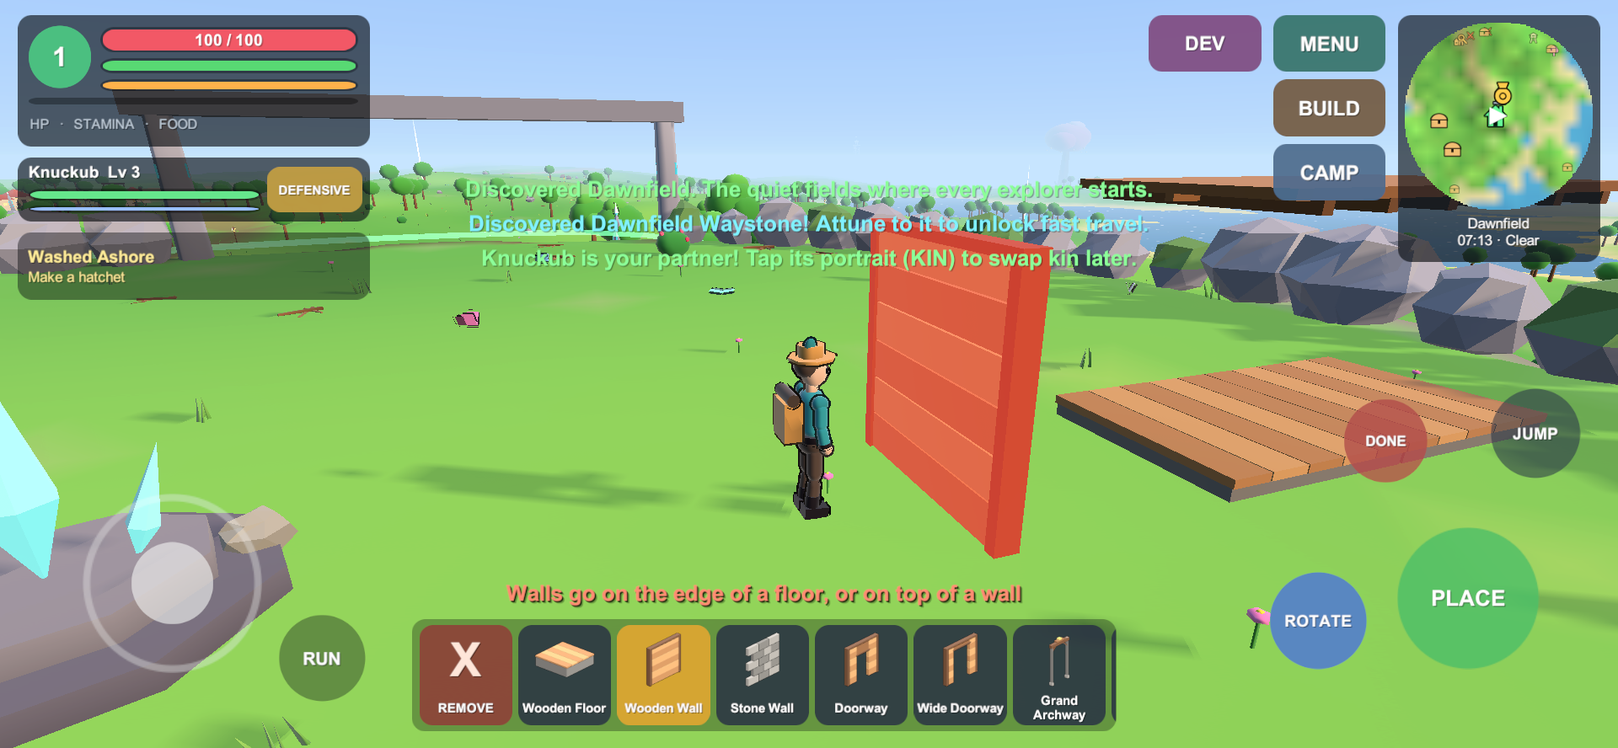
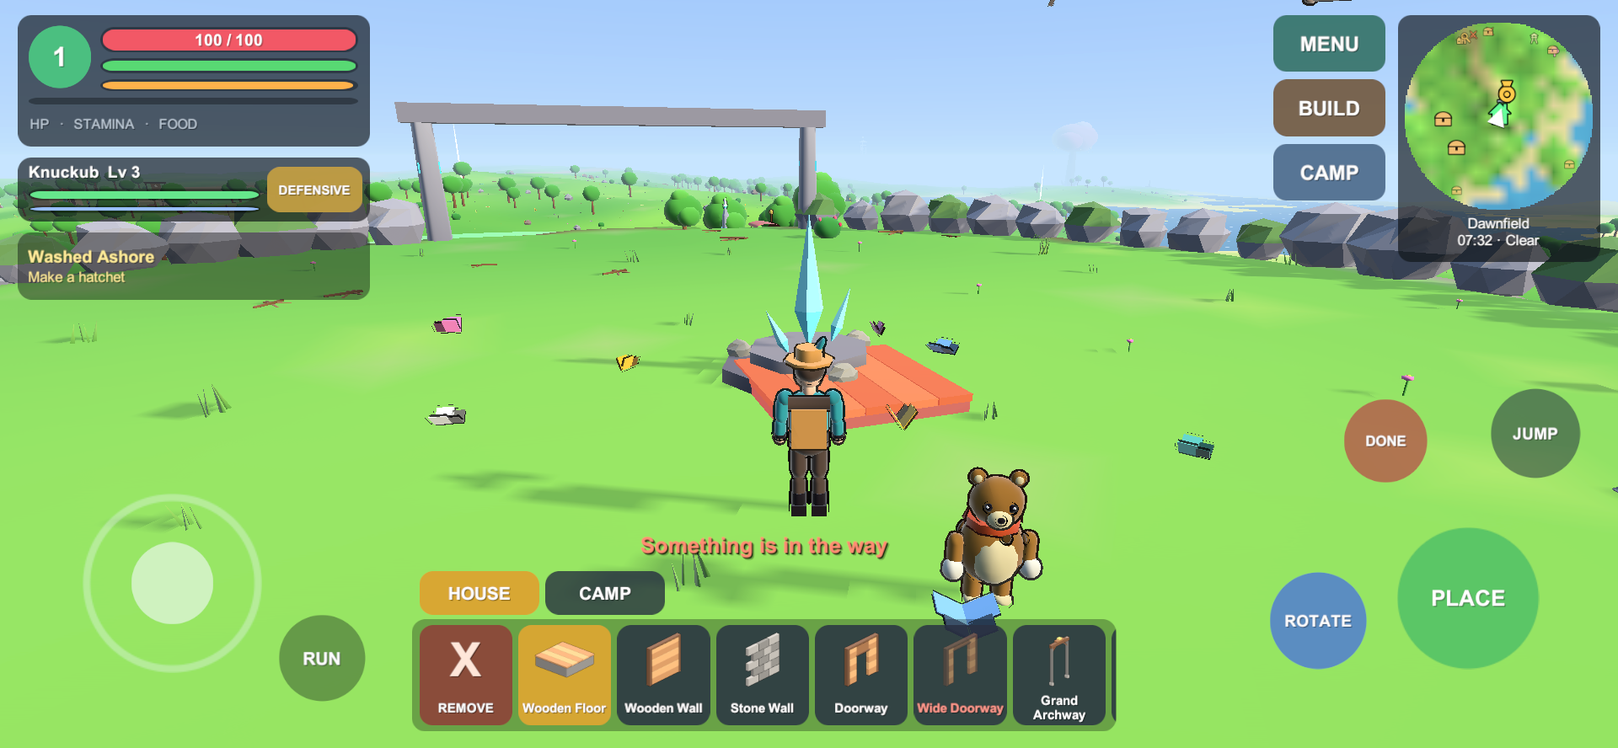
BUILD goes straight into placing; the build bar has HOUSE / CAMP tabs (camp structures as pictures too) and opens where you left off

diff --git a/docs/guides.js b/docs/guides.js
@@ -335,7 +335,7 @@ html: `
 
 <h2 id="house">Your house</h2>
 <p>Build a home inside the camp ring, a 3 m square at a time: <b>BUILD &gt; HOUSE</b>. Lay <b>floors</b> first (they sit level even on a slope), then <b>walls</b>, a <b>doorway</b> and <b>windows</b> along their edges - stand facing the edge you want, and ROTATE steps round the square's four sides. Put a <b>Flat Roof</b> or <b>Flat Ceiling</b> on top: it goes to the top of the room's walls, and you can walk on it and build the next storey on it - it is that storey's floor. Sloped roofs are for looks (two back to back make a ridge). Furniture goes on floors: a bed, table, chair, lamp, rug, bookshelf and a wardrobe where you can change your look. Doors open by themselves when someone walks up, and when you are inside, the roof and the walls in the way fade so you can see in. Taking a piece down gives all its materials back.</p>
-<p><b>The build bar:</b> while you build, a strip along the bottom shows every house piece you can make as a picture, with <b>REMOVE</b> first. Tap one to switch to it - no need to go back to the menu. The piece in hand is lit gold; ones you are short of materials for are dimmed. <b>JUMP</b> works while you build, and <b>DONE</b> puts the tools away.</p>
+<p><b>The build bar:</b> tapping <b>BUILD</b> goes straight into placing. A strip along the bottom shows what you can build as pictures, with <b>HOUSE</b> and <b>CAMP</b> tabs on top: HOUSE has <b>REMOVE</b> and every house piece you have, CAMP every camp structure you can build at your level. Tap one to switch to it - no need to go back to the menu (the menu's Build page still lists everything with full descriptions). BUILD opens where you left off. The piece in hand is lit gold; ones you are short of materials for are dimmed. <b>JUMP</b> works while you build, and <b>DONE</b> puts the tools away.</p>
 <p><b>Level houses:</b> a house is built level. A floor laid next to your house takes its height and its stone footing reaches down to the ground; where the ground is higher than the house, the whole house is lifted to stay level, with everything on it. Where a floor sits higher than you can step (more than about knee height), put <b>Porch Steps</b> on the outside of the edge by your door - they are as long as the ground needs.</p>
 <p><b>Upstairs:</b> lay a floor over a floor - from below or from the storey above - and it becomes an upper floor one storey up (a house goes four storeys high). <b>Wooden Stairs</b> go on a floor and climb the way you face (ROTATE turns them); they need open space above them, and floors beside their top make the landing. A railing goes round the stairwell once there is an upstairs. Walls, furniture and stairs go on the storey you are standing on. To build higher where there is a roof, take the roof off first. When you are downstairs, everything above you fades so you can still see in.</p>
 <p><b>Upper floors:</b> an upper floor stands on a floor or walls under it, or simply touches another floor at the same height - nothing has to be underneath, so a storey can spread out over open air as far as you like (balconies, bridges, a deck over the cliff). While placing a floor, <b>ROTATE</b> lifts it one storey at a time, so you can lay the next storey's floor from the ground; the build line says which storey it is on. Close open sides with the <b>Wooden Railing</b>. A floor or wall can't be taken away if that would leave an upper floor touching nothing.</p>

diff --git a/Assets/Scripts/UI/HUD.BuildBar.cs b/Assets/Scripts/UI/HUD.BuildBar.cs
@@ -5,22 +5,26 @@ using UnityEngine.UI;
 namespace Wildbond
 {
     /// <summary>
-    /// The house build bar (user, 2026-10-28: "easy and functional building a toddler could use ... swap from placing to
-    /// destroying in that ui for placing, not have to go into menu building house then pick it"): while you place a house
-    /// piece or use REMOVE, a strip along the bottom shows REMOVE and every house piece you can build, as pictures. Tap one
-    /// to switch to it at once; the one in hand is lit gold, ones you can't afford are dimmed.
+    /// The build bar (user, 2026-10-28: "easy and functional building a toddler could use ... swap from placing to
+    /// destroying in that ui for placing", then "tapping build should open placing, with an option at top for house or
+    /// camp"): BUILD goes straight into placing, and while placing a strip along the bottom shows, as pictures, either
+    /// REMOVE and every house piece you have the blueprint for (HOUSE) or every camp structure you can build at your level
+    /// (CAMP). HOUSE / CAMP tabs sit on top of it. Tap a picture to switch to it at once; the one in hand is lit gold, ones
+    /// you can't afford are dimmed.
     /// </summary>
     public partial class HUD
     {
         RectTransform buildBar, buildBarContent;
         ScrollRect buildBarScroll;
-        readonly List<(HousePieceDef def, Image bg, Image pic, Text name)> buildChips = new List<(HousePieceDef, Image, Image, Text)>();
+        Image houseTab, campTab;
+        readonly List<(object def, Image bg, Image pic, Text name)> buildChips = new List<(object, Image, Image, Text)>();
         Image removeChip;
         int buildBarStamp = -1;
-        bool buildBarWasOn;
+        bool buildBarWasOn, buildBarHouse;
 
         static readonly Color ChipCol = new Color(0.16f, 0.2f, 0.26f, 0.92f), ChipOn = new Color(0.85f, 0.65f, 0.2f, 0.95f),
-            ChipRemove = new Color(0.55f, 0.24f, 0.22f, 0.92f), ChipRemoveOn = new Color(0.9f, 0.35f, 0.3f, 0.98f);
+            ChipRemove = new Color(0.55f, 0.24f, 0.22f, 0.92f), ChipRemoveOn = new Color(0.9f, 0.35f, 0.3f, 0.98f),
+            TabOn = new Color(0.85f, 0.65f, 0.2f, 0.98f), TabOff = new Color(0.16f, 0.2f, 0.26f, 0.92f);
 
         void BuildBuildBar()
         {
@@ -43,22 +47,47 @@ namespace Wildbond
             buildBarScroll.vertical = false;
             buildBarScroll.movementType = ScrollRect.MovementType.Clamped;
             buildBarScroll.viewport = bg.rectTransform;
+
+            // HOUSE / CAMP tabs on top of the bar's left end
+            houseTab = Tab("HOUSE", 0, () => BuildPlacement.I.OpenBuild(true));
+            campTab = Tab("CAMP", 1, () => BuildPlacement.I.OpenBuild(false));
             buildBar.gameObject.SetActive(false);
         }
 
-        /// <summary>Fills the bar with REMOVE and the pieces you have the blueprint for (again whenever the house changes).</summary>
-        void FillBuildBar()
+        Image Tab(string label, int i, System.Action onTap)
+        {
+            var b = UIFactory.Button(buildBar, label, onTap, TabOff, 24);
+            var img = b.GetComponent<Image>();
+            img.sprite = UIFactory.Rounded; img.type = Image.Type.Sliced;
+            ((RectTransform)b.transform).Place(new Vector2(0, 1), new Vector2(0, 0), new Vector2(10 + i * 168, 6), new Vector2(160, 58));
+            return img;
+        }
+
+        /// <summary>Fills the bar for the mode in hand (again whenever what you can build changes).</summary>
+        void FillBuildBar(bool house)
         {
             foreach (Transform c in buildBarContent) Destroy(c.gameObject);
             buildChips.Clear();
-            removeChip = Chip("REMOVE", null, ChipRemove, () => BuildPlacement.I.BeginRemove());
-            foreach (var d in Housing.Pieces)
+            removeChip = null;
+            if (house)
             {
-                if (Housing.Locked(d)) continue;
-                var dd = d;
-                var bg = Chip(d.name, ItemIcons.Get("hp_" + d.id), ChipCol, () => BuildPlacement.I.BeginPiece(dd));
-                buildChips.Add((d, bg, bg.transform.Find("Pic")?.GetComponent<Image>(), bg.transform.Find("Name")?.GetComponent<Text>()));
+                removeChip = Chip("REMOVE", null, ChipRemove, () => BuildPlacement.I.BeginRemove());
+                foreach (var d in Housing.Pieces)
+                {
+                    if (Housing.Locked(d)) continue;
+                    var dd = d;
+                    var bg = Chip(d.name, ItemIcons.Get("hp_" + d.id), ChipCol, () => BuildPlacement.I.BeginPiece(dd));
+                    buildChips.Add((d, bg, bg.transform.Find("Pic")?.GetComponent<Image>(), bg.transform.Find("Name")?.GetComponent<Text>()));
+                }
             }
+            else
+                foreach (var d in MenuUI.CampBuildable())
+                {
+                    var dd = d;
+                    var bg = Chip(d.displayName, ItemIcons.Get("bld_" + d.id), ChipCol, () => BuildPlacement.I.Begin(dd));
+                    buildChips.Add((d, bg, bg.transform.Find("Pic")?.GetComponent<Image>(), bg.transform.Find("Name")?.GetComponent<Text>()));
+                }
+            buildBarWasOn = false;   // scroll to the one in hand again
         }
 
         Image Chip(string label, Sprite pic, Color col, System.Action onTap)
@@ -93,32 +122,38 @@ namespace Wildbond
         void UpdateBuildBar()
         {
             var bp = BuildPlacement.I;
-            bool on = bp.Active && (bp.Piece != null || bp.Removing);
+            bool on = bp.Active;
             if (buildBar.gameObject.activeSelf != on) buildBar.gameObject.SetActive(on);
             if (!on) { buildBarWasOn = false; return; }
-            // blueprints you find while building show up the next time it is filled
-            int stamp = GameManager.I.Player.Stats.blueprints.Count;
-            if (stamp != buildBarStamp || buildChips.Count == 0) { buildBarStamp = stamp; FillBuildBar(); }
+            bool house = bp.Piece != null || bp.Removing;
+            // refill on a mode switch, or when what you can build changes (a level, research, a blueprint, the camp founded)
+            var st = GameManager.I.Player.Stats;
+            int stamp = (house ? 1 : 0) + 2 * st.blueprints.Count + 1000 * st.level + 100000 * st.techDone.Count + (BaseManager.I.HasBase ? 50000000 : 0);
+            if (stamp != buildBarStamp || house != buildBarHouse || buildChips.Count == 0) { buildBarStamp = stamp; buildBarHouse = house; FillBuildBar(house); }
+            houseTab.color = house ? TabOn : TabOff;
+            campTab.color = house ? TabOff : TabOn;
+            houseTab.gameObject.SetActive(BaseManager.I.HasBase);   // no house before there is a camp
             bool free = WorldRules.Current.freeBuild;
             int picked = -1;
             for (int i = 0; i < buildChips.Count; i++)
             {
                 var c = buildChips[i];
-                bool cur = !bp.Removing && bp.Piece == c.def;
+                bool cur = house ? !bp.Removing && bp.Piece == c.def : bp.Current == c.def;
                 if (cur) picked = i;
-                bool can = free || ItemSources.Has(c.def.cost);
+                var cost = c.def is HousePieceDef hp ? hp.cost : ((BuildingDef)c.def).cost;
+                bool can = free || ItemSources.Has(cost);
                 c.bg.color = cur ? ChipOn : ChipCol;
                 if (c.pic != null) c.pic.color = can ? Color.white : new Color(1f, 1f, 1f, 0.35f);
                 if (c.name != null) c.name.color = can ? Color.white : new Color(1f, 0.6f, 0.55f);
             }
-            removeChip.color = bp.Removing ? ChipRemoveOn : ChipRemove;
-            // on opening, scroll so the piece in hand is in view
+            if (removeChip != null) removeChip.color = bp.Removing ? ChipRemoveOn : ChipRemove;
+            // on opening, scroll so the one in hand is in view
             if (!buildBarWasOn)
             {
                 buildBarWasOn = true;
                 Canvas.ForceUpdateCanvases();
                 float w = buildBarContent.rect.width, view = ((RectTransform)buildBarScroll.viewport).rect.width;
-                float x = picked < 0 ? 0f : 10 + (picked + 1) * 132f;
+                float x = picked < 0 ? 0f : 10 + (picked + (removeChip != null ? 1 : 0)) * 132f;
                 buildBarScroll.horizontalNormalizedPosition = w > view ? Mathf.Clamp01((x - view * 0.4f) / (w - view)) : 0f;
             }
         }

diff --git a/Assets/Scripts/Base/BuildPlacement.cs b/Assets/Scripts/Base/BuildPlacement.cs
@@ -59,12 +59,40 @@ namespace Wildbond
             ring.enabled = false;
         }
 
+        /// <summary>The last house piece / camp structure picked, so BUILD opens where you left off; and which of the two.</summary>
+        HousePieceDef lastPiece; BuildingDef lastCamp;
+        public static bool HouseMode;
+        bool ghostOwned;   // the ghost's mesh was made here (camp structures) - house meshes are shared, never destroyed
+
+        /// <summary>
+        /// BUILD (user, 2026-10-28: "tapping build should open placing, with an option at top for house or camp"): straight
+        /// into placing, house or camp as last time (camp until there is a Hearthstone), on the last thing picked.
+        /// </summary>
+        public void OpenBuild(bool? house = null)
+        {
+            if (Caves.InCave) { GameEvents.Warn("You can't build underground."); return; }
+            bool h = (house ?? HouseMode) && BaseManager.I.HasBase;
+            if (h) { BeginPiece(lastPiece != null && !Housing.Locked(lastPiece) ? lastPiece : Housing.Def("house_floor")); return; }
+            var list = MenuUI.CampBuildable();
+            var d = lastCamp != null && list.Contains(lastCamp) ? lastCamp : list.Count > 0 ? list[0] : null;
+            if (d == null) { GameEvents.Warn("Nothing you can build yet - level up or research more structures."); return; }
+            Begin(d);
+        }
+
+        void SetGhost(Mesh m, bool owned)
+        {
+            if (ghostOwned && ghostMf.sharedMesh != null && ghostMf.sharedMesh != m) Destroy(ghostMf.sharedMesh);
+            ghostMf.sharedMesh = m;
+            ghostOwned = owned;
+        }
+
         public void BeginPiece(HousePieceDef def)
         {
             if (def == null) return;
+            lastPiece = def; HouseMode = true;
             // a piece you can't afford can still be picked from the build bar: its ghost shows red with "Missing materials"
             Current = null; Removing = false; Piece = def; Active = true;
-            ghostMf.sharedMesh = Housing.MeshFor(def);
+            SetGhost(Housing.MeshFor(def), false);
             ghost.SetActive(true);
             turns = 0;
             SynthAudio.Play(Sfx.UiOpen);
@@ -96,7 +124,7 @@ namespace Wildbond
                 if (t != removeTarget)
                 {
                     removeTarget = t;
-                    if (t != null) ghostMf.sharedMesh = t.go.GetComponent<MeshFilter>().sharedMesh;
+                    if (t != null) SetGhost(t.go.GetComponent<MeshFilter>().sharedMesh, false);
                 }
                 ghost.SetActive(t != null);
                 if (t != null) { ghost.transform.SetPositionAndRotation(t.go.transform.position, t.go.transform.rotation); ghost.transform.localScale = Vector3.one * 1.02f; }
@@ -157,15 +185,11 @@ namespace Wildbond
         {
             if (def == null) return;
             Piece = null; Removing = false;
-            if (!WorldRules.Current.freeBuild && !ItemSources.Has(def.cost))
-            {
-                GameEvents.Warn($"Not enough materials for {def.displayName}.");
-                return;
-            }
+            // one you can't afford can still be picked from the build bar: its ghost shows red with "Missing materials"
+            lastCamp = def; HouseMode = false;
             Current = def;
             Active = true;
-            if (ghostMf.sharedMesh != null) Destroy(ghostMf.sharedMesh);
-            ghostMf.sharedMesh = ModelBuilder.BuildStatic(def.parts, def.palette, "ghost_" + def.id);
+            SetGhost(ModelBuilder.BuildStatic(def.parts, def.palette, "ghost_" + def.id), true);
             ghost.SetActive(true);
             rotY = GameManager.I.Player.transform.eulerAngles.y + 180f;
             rotY = Mathf.Round(rotY / rotateStep) * rotateStep;
@@ -232,7 +256,6 @@ namespace Wildbond
                 SynthAudio.Play(Sfx.Build, 0.8f, 0.7f);
                 GameManager.I.AddPlayerXp(8);
                 GameEvents.Say($"{Current.displayName}: construction started - Crafting kin will build it, or tap BUILD there to help.");
-                if (!free && !ItemSources.Has(Current.cost)) Cancel();
                 return;
             }
             var b = bm.Place(Current, target, rotY);
@@ -249,7 +272,6 @@ namespace Wildbond
             }
             GameEvents.Good($"Built {Current.displayName}");
             bm.StaffNew(b);   // idle camp kin that suit it start there
-            if (!free && !ItemSources.Has(Current.cost)) Cancel();
         }
 
         void DrawRing(Vector3 c, float r)

diff --git a/Assets/Scripts/UI/HUD.cs b/Assets/Scripts/UI/HUD.cs
@@ -227,7 +227,7 @@ namespace Wildbond
 
             var menu = UIFactory.Button(safe, "MENU", () => MenuUI.I.Toggle(), new Color(0.2f, 0.45f, 0.4f, 0.95f), 28);
             ((RectTransform)menu.transform).Place(new Vector2(1, 1), new Vector2(1, 1), new Vector2(-310, -20), new Vector2(150, 76));
-            var build = UIFactory.Button(safe, "BUILD", () => MenuUI.I.Open(MenuTab.Build), new Color(0.45f, 0.35f, 0.2f, 0.95f), 28);
+            var build = UIFactory.Button(safe, "BUILD", () => { if (BuildPlacement.I.Active) BuildPlacement.I.Cancel(); else BuildPlacement.I.OpenBuild(); }, new Color(0.45f, 0.35f, 0.2f, 0.95f), 28);
             ((RectTransform)build.transform).Place(new Vector2(1, 1), new Vector2(1, 1), new Vector2(-310, -106), new Vector2(150, 76));
             campBtn = UIFactory.Button(safe, "CAMP", () => MenuUI.I.OpenCamp(CampTab.Overview), new Color(0.3f, 0.42f, 0.55f, 0.95f), 28);
             ((RectTransform)campBtn.transform).Place(new Vector2(1, 1), new Vector2(1, 1), new Vector2(-310, -192), new Vector2(150, 76));
@@ -416,7 +416,7 @@ namespace Wildbond
             RoundButton(placeCluster, "JUMP", Btn.Jump, new Vector2(-110, 420), 120, new Color(0.2f, 0.24f, 0.3f, 0.75f), out _, 22);
             RoundButton(placeCluster, "DONE", Btn.Cancel, new Vector2(-310, 410), 112, new Color(0.7f, 0.3f, 0.3f, 0.85f), out _, 20);
             placeReason = UIFactory.Label(placeCluster, "", 30, Color.white, TextAnchor.MiddleCenter, FontStyle.Bold);
-            placeReason.rectTransform.Place(new Vector2(0.5f, 0), new Vector2(0.5f, 0), new Vector2(-60, 182), new Vector2(940, 50));
+            placeReason.rectTransform.Place(new Vector2(0.5f, 0), new Vector2(0.5f, 0), new Vector2(-60, 246), new Vector2(940, 50));
             var sh = placeReason.gameObject.AddComponent<Shadow>(); sh.effectColor = new Color(0f, 0f, 0f, 0.85f); sh.effectDistance = new Vector2(2f, -2f);
             BuildBuildBar();
             placeCluster.gameObject.SetActive(false);

diff --git a/Assets/Scripts/UI/MenuUI.Categories.cs b/Assets/Scripts/UI/MenuUI.Categories.cs
@@ -65,8 +65,22 @@ namespace Wildbond
             return null;
         }
 
+        /// <summary>
+        /// Camp structures the build bar offers: the Hearthstone before there is a camp, then everything researched and
+        /// within your level (ones you are short of materials for included), by category then level.
+        /// </summary>
+        public static List<BuildingDef> CampBuildable()
+        {
+            var bm = BaseManager.I;
+            int lvl = GameManager.I.Player.Stats.level;
+            var defs = ContentDB.BuildingList.FindAll(x => x.isCore != bm.HasBase);
+            defs = defs.FindAll(d => { var b = BuildBlock(d, lvl); return b == null || b == "Missing"; });
+            defs.Sort((a, b) => { int c = BuildCatOf(a).CompareTo(BuildCatOf(b)); return c != 0 ? c : a.unlockLevel.CompareTo(b.unlockLevel); });
+            return defs;
+        }
+
         /// <summary>Why this can't be built this moment (null = it can).</summary>
-        static string BuildBlock(BuildingDef d, int level)
+        public static string BuildBlock(BuildingDef d, int level)
         {
             if (!Tech.BuildingUnlocked(d.id)) return "Research";
             if (WorldRules.Current.freeBuild) return null;   // free-building worlds: no level, no cost

diff --git a/Assets/Scripts/Core/GameManager.cs b/Assets/Scripts/Core/GameManager.cs
@@ -489,7 +489,7 @@ namespace Wildbond
         {
             if (InputHub.Down(Btn.Menu)) { menu.Open(MenuTab.Bag); return; }
             if (InputHub.Down(Btn.Map)) { menu.Open(MenuTab.Map); return; }
-            if (InputHub.Down(Btn.Build) && !placement.Active) { menu.Open(MenuTab.Build); return; }
+            if (InputHub.Down(Btn.Build) && !placement.Active) { placement.OpenBuild(); return; }   // straight into placing (the menu's BUILD tab still lists everything)
             if (InputHub.Down(Btn.Summon)) Party.ToggleCompanion();
             if (InputHub.Down(Btn.Stance)) Party.CycleStance();
             if (InputHub.Down(Btn.KinPanel)) hud.ToggleKinPanel();

diff --git a/Assets/Scripts/UI/MenuUI.Camp.cs b/Assets/Scripts/UI/MenuUI.Camp.cs
@@ -294,7 +294,7 @@ namespace Wildbond
             // add-building card
             if (manageUid != null) return;   // MANAGE shows just the one structure
             var add = UIFactory.Panel(list, "Add", new Color(1, 1, 1, 0.03f));
-            add.gameObject.AddComponent<Button>().onClick.AddListener(() => Open(MenuTab.Build));
+            add.gameObject.AddComponent<Button>().onClick.AddListener(() => { Close(); BuildPlacement.I.OpenBuild(false); });
             var at = UIFactory.Label(add.transform, "+ BUILD NEW", 32, new Color(1, 1, 1, 0.6f), TextAnchor.MiddleCenter, FontStyle.Bold);
             at.rectTransform.Stretch();
         }

diff --git a/CLAUDE.md b/CLAUDE.md
@@ -148,4 +148,5 @@ Keyboard: WASD, RMB look, F/click attack, G seed, E use, Space jump, Q roll, C s
 - **Relics in designed places (2026-10-24, user: "I've seen some half way up a mountain, some just randomly in the plains, some under water - I envision them at mountain peaks, in a forest, on a small rock in the water, so it looks like we designed the map intentionally"):** `World/Relics.Places.cs` (`Relics` is now partial; the old Ledge / Hilltop / Lake placement is gone). The old island is scanned on a 10 m height grid (`G` reads between grid points for walls and shorelines) for six `Relics.Setting`s, each with a built setting that stays after the relic is taken (`MakeSetting`, `RenderAssets.Building`, stone tinted red sandstone in the Badlands and frosted granite in the Peaks, shown within `SettingRange` 230 m): **Summit** (highest point within 50 m, 16 m+ above the ring 40 m round, above 40 m - a cairn), **Mesa** (Badlands top with sheer sides - an altar with four posts), **Crown** (9 m+ prominence - a ring of six standing stones), **Grove** (a local peak of `WorldGen.Forest` in Meadow / Peaks woods - a mossy stump ringed by mushrooms), **Islet** (water 10-38 m from shore, lakes first - a rock rising from the bottom, relic at water + 1.75), **Canyon** (Badlands floor between two opposite walls 8 m higher - a gate turned to span the canyon, each pillar down to its own ground). Relic kinds prefer: Crag Claw mesa / summit, Windfeather summit, Tidepearl islet, Hearthmoss and Tetherbloom grove, Kinspring canyon; best candidates first with a little jitter, 220 m apart (relaxed to 90 m). Keeps clear of settlements, Warden rings, landmarks and the start (`AvoidSnapshot`). `Relics.Prepare()` (after `Trails.Prepare` in GameManager) starts it on a thread (~1.1 s); `Relics.BlocksNode` (ChunkManager both node checks + Hazards) waits for it once (`EnsureReady`, ~0.45 s during load) and keeps trees, rocks and hazards out of each setting (`clear` 2.8-6 m). Outer-land relics keep their places and get a cairn (lone height) or stone ring. Relic ids are unchanged, so found relics stay found; unfound ones moved. `PlacementReport` gives candidate counts + timing. Checked on seed 97656514 and 7129: all 42 island relics placed (Meadow 15 / Peaks 14 / Badlands 13 on the first; 10 groves, 10 summits, 7 islets, 5 canyons, 4 mesas, 2 crowns on the second); pictures `Previews/Relics/*.png`.
 - **Walkable ceilings + build bar (2026-10-28, user: "I made a 2nd floor, then realized I couldn't walk on prior placed ceilings and destroying them takes a lot of work... I want easy and functional building a toddler could use; I can't jump while placing; let me swap from placing to destroying in the placing UI"):** **Flat Roof and Flat Ceiling are floors now** (`HouseKind.Floor` with `style` "roof" / "ceiling"; `Housing.IsLid`), so they are walkable surfaces, walls / furniture / stairs go on them and they are the next storey's floor. The floor snap puts a lid at `LidStorey`: the top of the room's walls over the square's top floor (`RoomRoofY` rounded to storeys - one storey for a normal room, three for walls stacked three high), or a higher lid on a square beside it (so a hall's middle matches its edges), else the storey above yours; ROTATE still lifts it. A lid over its room counts as held up. Their meshes are the old roof / ceiling drawn with the top at the floor height (`MeshFor` `case Floor when style`). Sloped roofs stay roofs (looks only). **Old saves**: `HouseSave.lid` (new saves write true); an old flat roof / ceiling (stored as a roof over its top floor at the room's roof height) is turned into the floor of the storey that height reaches after the real floors load (`OldRoofToLid`), and an old lid construction site the same way (`MigrateLidSite`, `SiteSave.lid`; refunded to camp storage if there is no room). **Build bar** (`UI/HUD.BuildBar.cs`): while placing a house piece or removing, a strip at the bottom (in place of the hotbar) shows REMOVE and every house piece you have the blueprint for as pictures (`ItemIcons` now renders `hp_<id>` from `Housing.MeshFor`); tap to switch (`BeginPiece` no longer refuses an unaffordable piece - its ghost says "Missing materials"), gold = in hand, dimmed = can't afford; scrolls to the piece in hand on opening; refilled when a blueprint is found. Placing screen also has **JUMP** (same spot as always) and DONE (was CANCEL); running out of materials no longer closes it. **Removing gives every material back** (was half). Checked in the editor: a 2-square room's ceilings went to storey 2 at +3.15 and the explorer stood on one (y 19.98, storey 1) while below still counts as indoors; walls stacked two high put the ceiling at storey 3 (+6.30), ROTATE past that refused; a wall and a chair placed on a ceiling; an old-format flat roof loaded as a storey-2 floor and saved back with `lid`; the bar's REMOVE took a ceiling down from below with all 6 wood back and stayed in remove mode. Pictures `Previews/House/build_bar.png`, `walk_on_ceiling.png`.
 - **Stairs over a wall (2026-10-28, user: "I have to jump from the top of the stairs to the 2nd floor, something blocks my walking"):** found on the user's save (read over adb): the stairs climb onto an upstairs floor and a ground-floor wall stands on the edge under where they arrive (`StairEdge` only refuses a wall at the stairs' foot, or across their top one storey up). Its collision band ran to 2.75 m, and feet on the last steps are ~2.6 m up, so it stopped the explorer half a metre short. `RebuildSegs` now caps a wall under a flight's top edge at the flight's top - 1.25 m; the space under the steps is closed by the flight's own sides. Checked on the user's save: a walk up the stairs carries on onto the upstairs floor (y 9.22) unblocked, and from outside at ground level the wall still stops you.
+- **BUILD opens placing (2026-10-28, user: "tapping build should open placing, with an option at top for house or camp"):** the HUD BUILD button and the B key call `BuildPlacement.OpenBuild()` (BUILD again while placing = done); Camp > Structures' + BUILD NEW opens it in camp mode. It goes into house or camp mode as last time (`BuildPlacement.HouseMode`; camp until there is a Hearthstone, which is then the only choice) on the last piece / structure picked (`lastPiece`, `lastCamp`). The build bar (`UI/HUD.BuildBar.cs`) now shows whenever placing, with HOUSE / CAMP tabs on top: HOUSE = REMOVE + house pieces as before, CAMP = `MenuUI.CampBuildable()` (researched and within level via the now-public `BuildBlock`, short of materials included, sorted by `BuildCatOf` then level) with `bld_<id>` pictures; refilled on a mode switch or when level / research / blueprints / the camp change. `Begin(def)` no longer refuses an unaffordable structure (its ghost says why) and running out no longer ends placing. Ghost meshes: `SetGhost` only destroys a mesh it made (camp structures) - house piece meshes are `Housing.MeshFor`'s shared cache and switching from a house piece to a structure used to destroy one. The menu's BUILD tab is unchanged (still reachable from the sidebar). Pictures `Previews/House/build_bar.png`, `build_bar_camp.png`.
 - **Next:** biome sub-regions/POIs, power/conveyors, boss alphas with phases, random-affix loot + kin accessory slot, device profiling.
